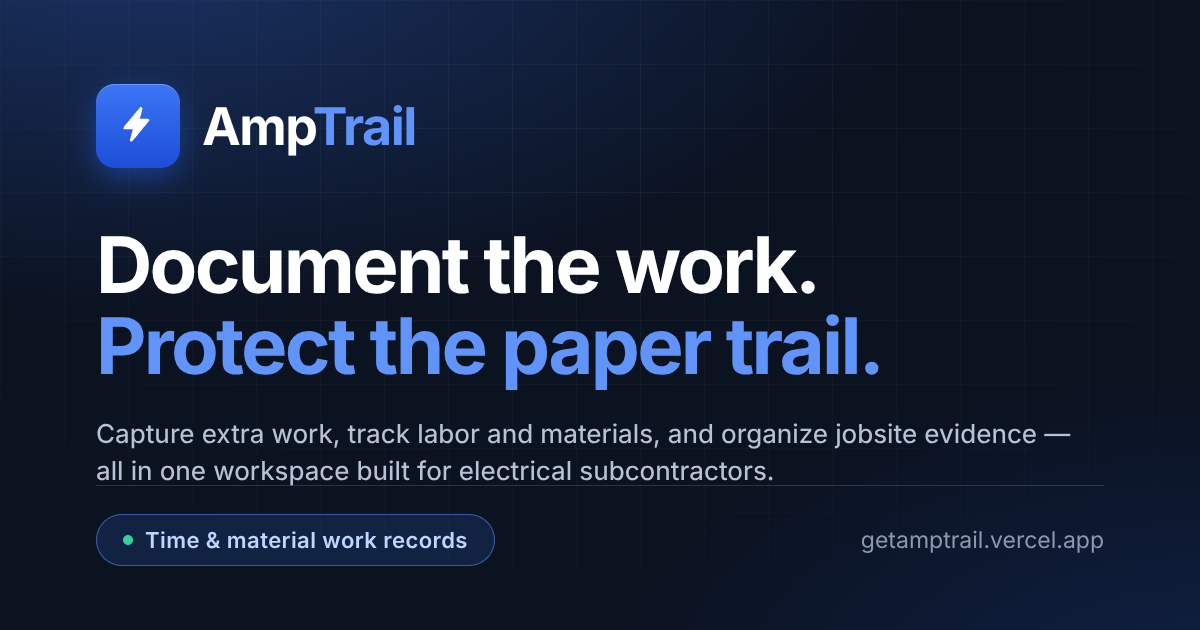
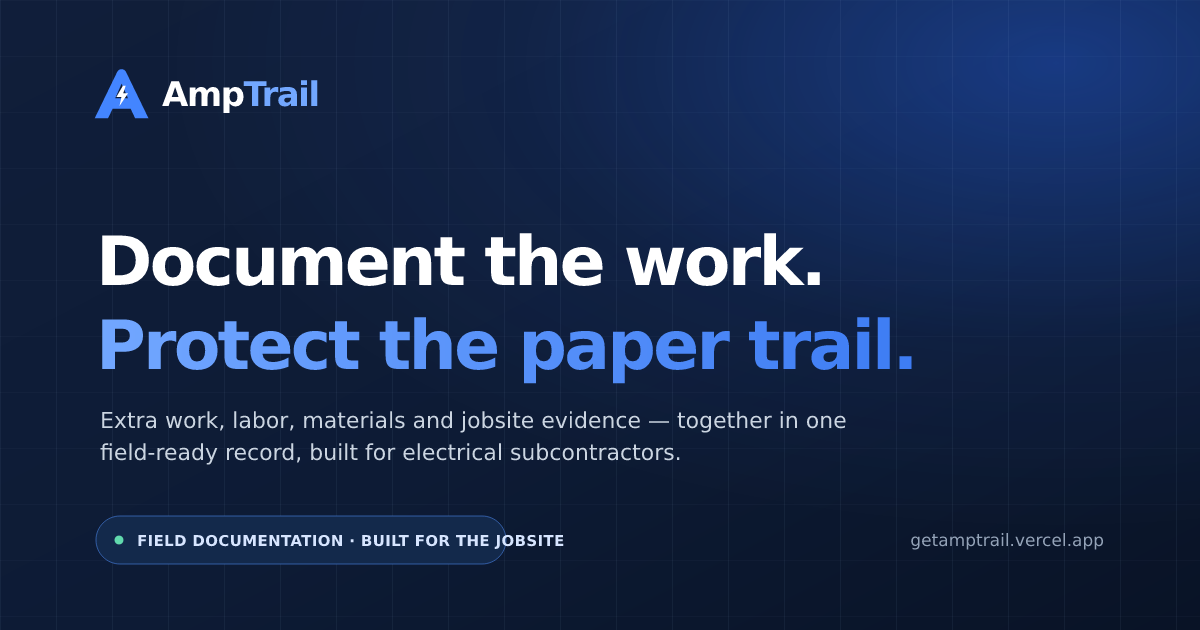
Implement AmpTrail brand system and assets

diff --git a/lib/tickets/pdf.ts b/lib/tickets/pdf.ts
@@ -47,7 +47,7 @@ export type WorkRecordInput = {
   images?: Record<string, string>;
 };
 
-const INK: [number, number, number] = [11, 18, 32];
+const INK: [number, number, number] = [13, 27, 53];
 const BRAND: [number, number, number] = [37, 99, 235];
 const SLATE: [number, number, number] = [86, 100, 118];
 const FAINT: [number, number, number] = [148, 163, 184];
@@ -134,38 +134,26 @@ export function buildWorkRecordPdf(input: WorkRecordInput) {
   doc.setFillColor(...INK);
   doc.roundedRect(left, y - 18, contentWidth, bandHeight, 8, 8, 'F');
 
-  // Bolt mark (vector — standard PDF fonts cannot render emoji)
-  const boltX = left + 18;
-  const boltY = y - 4;
-  doc.setFillColor(...BRAND);
-  doc.roundedRect(boltX, boltY, 30, 30, 7, 7, 'F');
-  doc.setFillColor(255, 255, 255);
-  doc.lines(
-    [
-      [5, -9],
-      [-4.2, 0],
-      [3.4, -8.4],
-      [4.2, 0],
-      [-7.2, 17],
-      [1.2, -9.6],
-      [-2.4, 0],
-    ],
-    boltX + 11,
-    boltY + 23,
-    [1, 1],
-    'F',
-    true
-  );
+  drawPdfBrandMark(doc, left + 16, y - 7, 28, true);
 
+  const wordmarkX = left + 54;
   doc.setFont('helvetica', 'bold');
   doc.setFontSize(12.5);
   doc.setTextColor(255, 255, 255);
-  doc.text((companyName || 'AmpTrail').toUpperCase().slice(0, 46), left + 58, y + 2);
+  doc.text('Amp', wordmarkX, y + 3);
+  const ampWidth = doc.getTextWidth('Amp');
+  doc.setTextColor(111, 160, 255);
+  doc.text('Trail', wordmarkX + ampWidth, y + 3);
 
   doc.setFont('helvetica', 'normal');
-  doc.setFontSize(8);
-  doc.setTextColor(170, 186, 208);
-  doc.text('TIME & MATERIAL WORK RECORD', left + 58, y + 16);
+  doc.setFontSize(7.6);
+  doc.setTextColor(198, 211, 231);
+  doc.text('TIME & MATERIAL WORK RECORD', wordmarkX, y + 18);
+  if (companyName) {
+    doc.setFontSize(7.1);
+    doc.setTextColor(145, 164, 192);
+    doc.text(`Prepared for ${companyName}`.slice(0, 54), wordmarkX, y + 31);
+  }
 
   doc.setFont('helvetica', 'bold');
   doc.setFontSize(13);
@@ -490,7 +478,7 @@ export function buildWorkRecordPdf(input: WorkRecordInput) {
     doc.setFontSize(7.2);
     doc.setTextColor(...SLATE);
     doc.text(
-      `${companyName || 'AmpTrail'} · ${ticket.ticket_number} · ${project.name}`.slice(0, 92),
+      `AmpTrail · ${companyName ? `${companyName} · ` : ''}${ticket.ticket_number} · ${project.name}`.slice(0, 92),
       left,
       pageHeight - 21
     );
@@ -498,6 +486,63 @@ export function buildWorkRecordPdf(input: WorkRecordInput) {
   }
 
   return doc;
+}
+
+function drawPdfBrandMark(doc: jsPDF, x: number, y: number, size: number, onDark: boolean) {
+  const scale = size / 48;
+  const originX = x + 3 * scale;
+  const originY = y + 46 * scale;
+
+  // A is built as a filled letterform, not a standalone lightning glyph.
+  const monogramColor: [number, number, number] = onDark ? [67, 133, 255] : BRAND;
+  doc.setFillColor(...monogramColor);
+  doc.lines(
+    [
+      [20, -44],
+      [21, 44],
+      [-10, 0],
+      [-4, -9],
+      [-14, 0],
+      [-4, 9],
+      [-10, 0],
+    ],
+    originX,
+    originY,
+    [scale, scale],
+    'F',
+    true
+  );
+
+  const counterColor: [number, number, number] = onDark ? INK : [255, 255, 255];
+  doc.setFillColor(...counterColor);
+  doc.triangle(
+    x + 24 * scale,
+    y + 15.35 * scale,
+    x + 18.4 * scale,
+    y + 28.15 * scale,
+    x + 29.6 * scale,
+    y + 28.15 * scale,
+    'F'
+  );
+
+  const boltColor: [number, number, number] = onDark ? [255, 255, 255] : INK;
+  doc.setFillColor(...boltColor);
+  doc.lines(
+    [
+      [-5.65, 9.7],
+      [4.4, 0],
+      [-1.7, 7.9],
+      [7.55, -11.2],
+      [-4.3, 0],
+      [2.15, -6.4],
+      [-2.45, 0],
+    ],
+    x + 25.1 * scale,
+    y + 17.2 * scale,
+    [scale, scale],
+    'F',
+    true
+  );
 }
 
 function drawContinuationHeader(
@@ -508,17 +553,22 @@ function drawContinuationHeader(
   right: number
 ) {
   const y = 46;
+  drawPdfBrandMark(doc, left, y - 13, 17, false);
   doc.setFont('helvetica', 'bold');
-  doc.setFontSize(8.4);
+  doc.setFontSize(8.2);
   doc.setTextColor(...INK);
-  doc.text(`${ticket.ticket_number} — continued`, left, y);
+  doc.text('AmpTrail', left + 22, y - 3);
+  doc.setFont('helvetica', 'normal');
+  doc.setFontSize(7.5);
+  doc.setTextColor(...SLATE);
+  doc.text(`${ticket.ticket_number} — continued`, left + 22, y + 8);
   doc.setFont('helvetica', 'normal');
   doc.setFontSize(8);
   doc.setTextColor(...SLATE);
-  doc.text(project.name.slice(0, 48), right, y, { align: 'right' });
+  doc.text(project.name.slice(0, 48), right, y + 1, { align: 'right' });
   doc.setDrawColor(...LINE);
   doc.setLineWidth(0.7);
-  doc.line(left, y + 8, right, y + 8);
+  doc.line(left, y + 14, right, y + 14);
   return y + 30;
 }
 

diff --git a/components/brand.tsx b/components/brand.tsx
@@ -1,27 +1,53 @@
 import Link from 'next/link';
 import { cn } from '@/lib/utils';
 
-/**
- * AmpTrail mark: an electric bolt inside a rounded field, paired with a
- * tight, confident wordmark. The mark alone is used in compact contexts.
- */
-export function BrandMark({ className, size = 'md' }: { className?: string; size?: 'sm' | 'md' | 'lg' }) {
-  const box = size === 'sm' ? 'h-7 w-7 rounded-[0.5rem]' : size === 'lg' ? 'h-10 w-10 rounded-xl' : 'h-8 w-8 rounded-[0.625rem]';
-  const glyph = size === 'sm' ? 14 : size === 'lg' ? 21 : 17;
+type BrandSize = 'sm' | 'md' | 'lg';
 
+const markSizes: Record<BrandSize, string> = {
+  sm: 'h-7 w-7',
+  md: 'h-8 w-8',
+  lg: 'h-10 w-10',
+};
+
+const wordmarkSizes: Record<BrandSize, string> = {
+  sm: 'text-[15px]',
+  md: 'text-[17px]',
+  lg: 'text-[20px]',
+};
+
+/**
+ * AmpTrail's monogram: a custom-built capital A with a lightning cut running
+ * through its counter and crossbar. The blue A stays consistent on both
+ * surfaces; only the bolt changes for contrast.
+ */
+export function BrandMark({
+  className,
+  size = 'md',
+  inverted = false,
+}: {
+  className?: string;
+  size?: BrandSize;
+  inverted?: boolean;
+}) {
   return (
-    <span
-      className={cn(
-        'grid shrink-0 place-items-center bg-brand-600 text-white shadow-[0_1px_2px_rgb(11_18_32/0.25),inset_0_1px_0_rgb(255_255_255/0.18)]',
-        box,
-        className
-      )}
+    <svg
+      className={cn('block shrink-0', markSizes[size], className)}
+      viewBox="0 0 48 48"
+      fill="none"
       aria-hidden="true"
+      focusable="false"
     >
-      <svg width={glyph} height={glyph} viewBox="0 0 24 24" fill="currentColor" aria-hidden="true">
-        <path d="M13.6 2.2a.75.75 0 0 1 .72.95l-1.4 5.1h4.2a.75.75 0 0 1 .57 1.24l-8.6 10.4a.75.75 0 0 1-1.31-.7l1.5-5.44H5.1a.75.75 0 0 1-.57-1.24l8.5-10.2a.75.75 0 0 1 .57-.3Z" />
-      </svg>
-    </span>
+      <path
+        d="M20.21 5.08c1.49-3.1 6.09-3.1 7.58 0L47.36 45.4H35.75l-3.89-8.2H16.14l-3.89 8.2H.64L20.21 5.08Zm3.79 10.27-5.6 12.8h11.2L24 15.35Z"
+        fill={inverted ? '#4385FF' : '#2563EB'}
+        fillRule="evenodd"
+        clipRule="evenodd"
+      />
+      <path
+        d="m25.1 17.2-5.65 9.7h4.4l-1.7 7.9 7.55-11.2H25.4l2.15-6.4H25.1Z"
+        fill={inverted ? '#FFFFFF' : '#0D1B35'}
+      />
+    </svg>
   );
 }
 
@@ -33,27 +59,35 @@ export function Brand({
   className,
 }: {
   href?: string;
-  size?: 'sm' | 'md' | 'lg';
+  size?: BrandSize;
   inverted?: boolean;
   compact?: boolean;
   className?: string;
 }) {
-  const text = size === 'sm' ? 'text-[15px]' : size === 'lg' ? 'text-[19px]' : 'text-[17px]';
-
   return (
     <Link
       href={href}
       aria-label="AmpTrail home"
       className={cn(
-        'group inline-flex items-center gap-2.5 rounded-lg focus-visible:outline-none',
+        'group inline-flex shrink-0 items-center gap-2.5 rounded-lg focus-visible:outline-none',
         className
       )}
     >
-      <BrandMark size={size} className="transition-transform duration-200 group-hover:scale-[1.04]" />
+      <BrandMark
+        size={size}
+        inverted={inverted}
+        className="transition-transform duration-200 group-hover:scale-[1.035]"
+      />
       {!compact && (
-        <span className={cn('flex items-baseline font-semibold tracking-[-0.028em]', text)}>
+        <span
+          aria-hidden="true"
+          className={cn(
+            'inline-flex items-center font-semibold leading-none tracking-[-0.045em]',
+            wordmarkSizes[size]
+          )}
+        >
           <span className={inverted ? 'text-white' : 'text-ink'}>Amp</span>
-          <span className={inverted ? 'text-brand-300' : 'text-brand-600'}>Trail</span>
+          <span className={inverted ? 'text-[#6FA0FF]' : 'text-brand-600'}>Trail</span>
         </span>
       )}
     </Link>

diff --git a/app/globals.css b/app/globals.css
@@ -30,12 +30,12 @@
   --color-brand-ink: #1e3a8a;
 
   /* Neutrals — cool slate */
-  --color-ink: #0b1220;
-  --color-ink-soft: #1e293b;
-  --color-body: #334155;
-  --color-muted: #566476;
-  --color-subtle: #5f6d81;
-  --color-faint: #63707f;
+  --color-ink: #0d1b35;
+  --color-ink-soft: #1e2d49;
+  --color-body: #33445d;
+  --color-muted: #56657d;
+  --color-subtle: #5f6f87;
+  --color-faint: #64748b;
 
   /* Surfaces */
   --color-canvas: #f6f8fb;
@@ -60,10 +60,10 @@
   --color-info-line: #cbdcfe;
 
   /* Elevation — restrained, three usable levels */
-  --shadow-xs: 0 1px 2px 0 rgb(11 18 32 / 0.05);
-  --shadow-sm: 0 1px 3px 0 rgb(11 18 32 / 0.07), 0 1px 2px -1px rgb(11 18 32 / 0.05);
-  --shadow-md: 0 6px 16px -4px rgb(11 18 32 / 0.1), 0 2px 6px -2px rgb(11 18 32 / 0.05);
-  --shadow-lg: 0 16px 32px -12px rgb(11 18 32 / 0.16), 0 4px 12px -4px rgb(11 18 32 / 0.08);
+  --shadow-xs: 0 1px 2px 0 rgb(13 27 53 / 0.05);
+  --shadow-sm: 0 1px 3px 0 rgb(13 27 53 / 0.07), 0 1px 2px -1px rgb(13 27 53 / 0.05);
+  --shadow-md: 0 6px 16px -4px rgb(13 27 53 / 0.1), 0 2px 6px -2px rgb(13 27 53 / 0.05);
+  --shadow-lg: 0 16px 32px -12px rgb(13 27 53 / 0.16), 0 4px 12px -4px rgb(13 27 53 / 0.08);
   --shadow-inset: inset 0 1px 0 0 rgb(255 255 255 / 0.06);
 
   /* Radii */
@@ -215,7 +215,7 @@
   }
 
   .display {
-    font-size: clamp(2.125rem, 1.35rem + 3.1vw, 3.5rem);
+    font-size: clamp(2.125rem, 1.35rem + 2.45vw, 3rem);
     font-weight: 600;
     line-height: 1.06;
     letter-spacing: -0.032em;

diff --git a/app/manifest.ts b/app/manifest.ts
@@ -1,0 +1,31 @@
+import type { MetadataRoute } from 'next';
+
+export default function manifest(): MetadataRoute.Manifest {
+  return {
+    id: '/',
+    name: 'AmpTrail',
+    short_name: 'AmpTrail',
+    description: 'Field documentation for electrical subcontractors.',
+    start_url: '/dashboard',
+    scope: '/',
+    display: 'standalone',
+    background_color: '#F7F9FD',
+    theme_color: '#0D1B35',
+    icons: [
+      { src: '/icon-192.png', sizes: '192x192', type: 'image/png', purpose: 'any' },
+      { src: '/icon-512.png', sizes: '512x512', type: 'image/png', purpose: 'any' },
+      {
+        src: '/icon-192-maskable.png',
+        sizes: '192x192',
+        type: 'image/png',
+        purpose: 'maskable',
+      },
+      {
+        src: '/icon-512-maskable.png',
+        sizes: '512x512',
+        type: 'image/png',
+        purpose: 'maskable',
+      },
+    ],
+  };
+}

diff --git a/components/auth/auth-frame.tsx b/components/auth/auth-frame.tsx
@@ -72,9 +72,7 @@ export function AuthFrame({
           className="absolute inset-0 opacity-[0.12] [background-image:linear-gradient(to_right,#ffffff_1px,transparent_1px),linear-gradient(to_bottom,#ffffff_1px,transparent_1px)] [background-size:52px_52px] [mask-image:radial-gradient(70%_60%_at_70%_20%,black,transparent)]"
         />
 
-        <p className="relative text-[12px] font-medium uppercase tracking-[0.1em] text-brand-300">
-          AmpTrail
-        </p>
+        <Brand href="/" size="lg" inverted className="relative w-fit" />
 
         <div className="relative max-w-md">
           <h2 className="text-[1.75rem] font-semibold leading-[1.15] tracking-[-0.025em] xl:text-[2rem]">

diff --git a/app/layout.tsx b/app/layout.tsx
@@ -44,10 +44,15 @@ export const metadata: Metadata = {
     'jobsite evidence',
     'construction documentation',
   ],
+  manifest: '/manifest.webmanifest',
   icons: {
-    icon: [{ url: '/icon.svg', type: 'image/svg+xml' }],
+    icon: [
+      { url: '/favicon.ico', sizes: 'any' },
+      { url: '/icon.svg', type: 'image/svg+xml' },
+      { url: '/icon-192.png', sizes: '192x192', type: 'image/png' },
+      { url: '/icon-512.png', sizes: '512x512', type: 'image/png' },
+    ],
     apple: [{ url: '/apple-touch-icon.png', sizes: '180x180', type: 'image/png' }],
-    other: [{ url: '/icon-512.png', sizes: '512x512', type: 'image/png' }],
   },
   openGraph: {
     type: 'website',

diff --git a/README.md b/README.md
@@ -99,6 +99,18 @@ supabase/migrations/       PostgreSQL schema, RLS, and private-storage setup
 tests/                    Calculation and validation tests
 ```
 
+## Brand assets
+
+AmpTrail uses a custom A-and-lightning monogram with matching horizontal wordmarks for light and dark surfaces. The inline `Brand` component keeps the header, footer, authentication pages, and workspace shell visually consistent.
+
+- `public/brand/amptrail-horizontal.svg` / `amptrail-horizontal-dark.svg` — full horizontal vector wordmarks, with high-resolution PNG exports beside them.
+- `public/brand/amptrail-icon.svg` / `amptrail-icon-dark.svg` — standalone A-and-lightning vectors, with 512 px PNG exports beside them.
+- `public/brand/app-icon.svg` and `apple-icon.svg` — dark PWA icon and light Apple touch icon artwork.
+- `public/brand/og.svg` — editable Open Graph artwork; `public/og.png` is the 1200 × 630 social card.
+- `app/icon.svg`, `public/favicon.ico`, `public/apple-touch-icon.png`, and `app/manifest.ts` — browser, Apple, and installable PWA icon metadata/assets.
+
+The manifest includes 192 px and 512 px standard and maskable icons. Replacing the source SVG artwork and regenerating its PNG exports does not affect application routes or authentication.
+
 ## Checks
 
 ```bash
